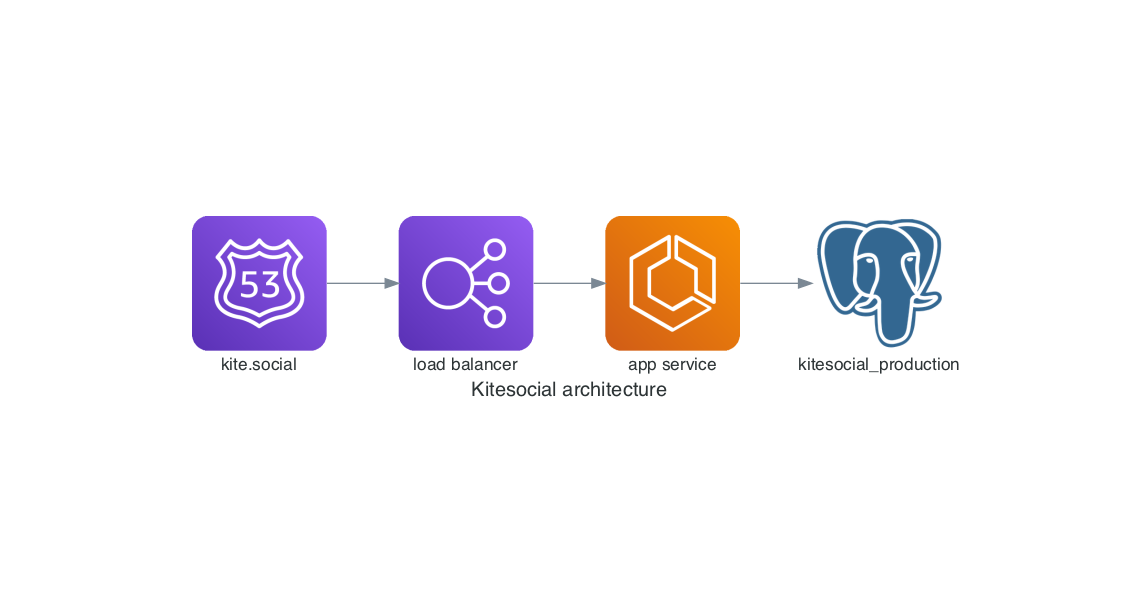
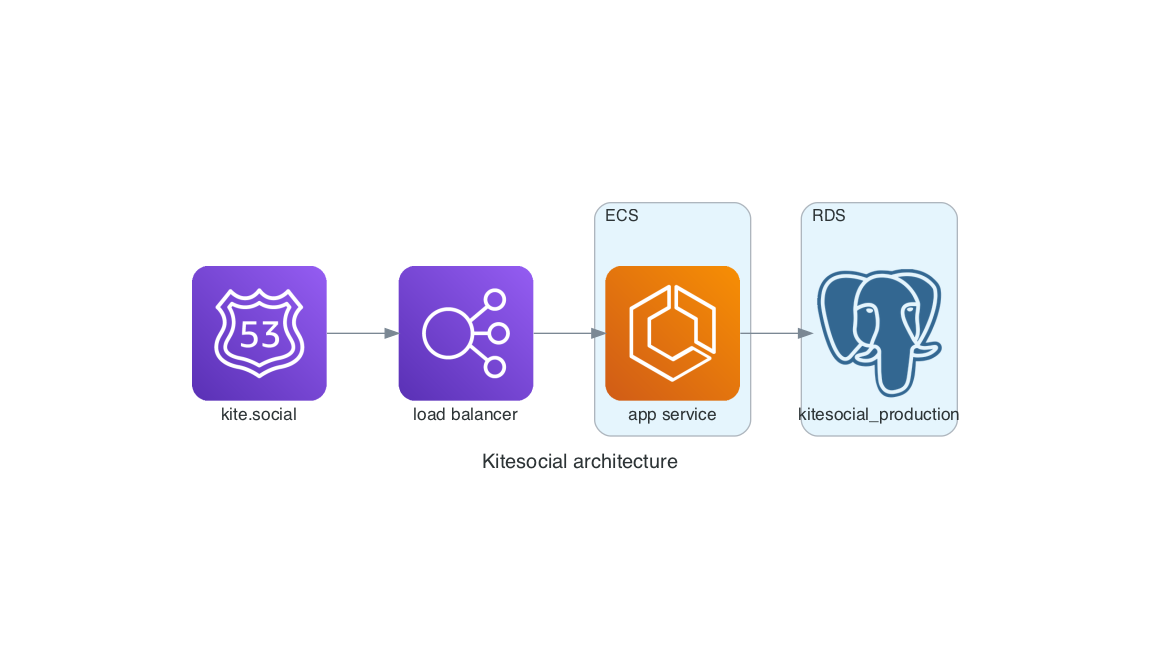
Use clusters for service grouping in diagram

Changed region(s): [[0.1536, 0.3, 0.8604, 0.72]]

diff --git a/diagram.py b/diagram.py
@@ -7,7 +7,9 @@ from diagrams.aws.network import Route53
 with Diagram("Kitesocial architecture", filename="diagram", show=False):
     dns = Route53("kite.social")
     lb = ELB("load balancer")
-    ecs = ECS("app service")
-    db = PostgreSQL("kitesocial_production")
+    with Cluster("ECS"):
+        ecs = ECS("app service")
+    with Cluster("RDS"):
+        db = PostgreSQL("kitesocial_production")
 
     dns >> lb >> ecs >> db
